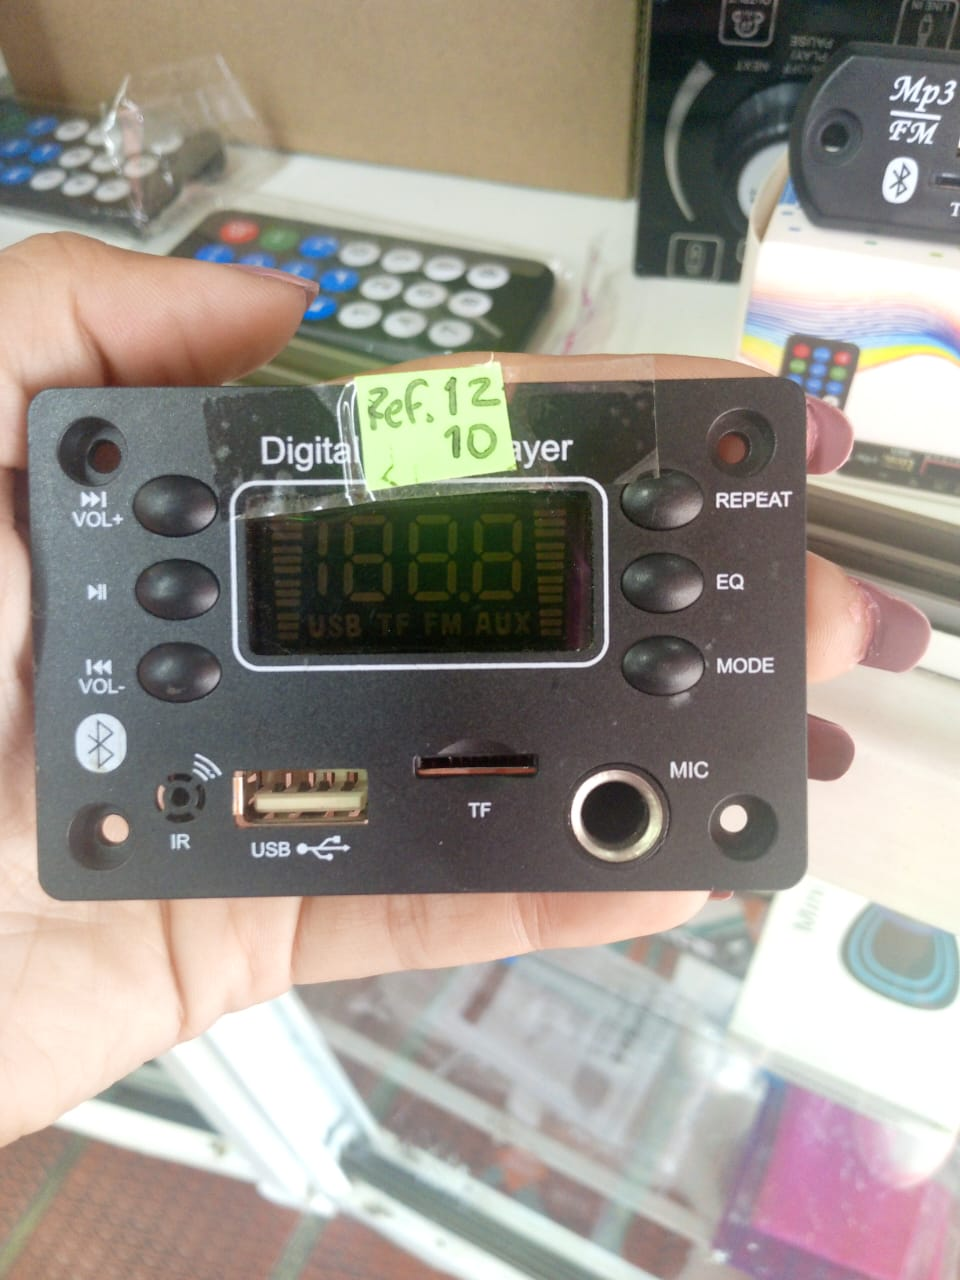
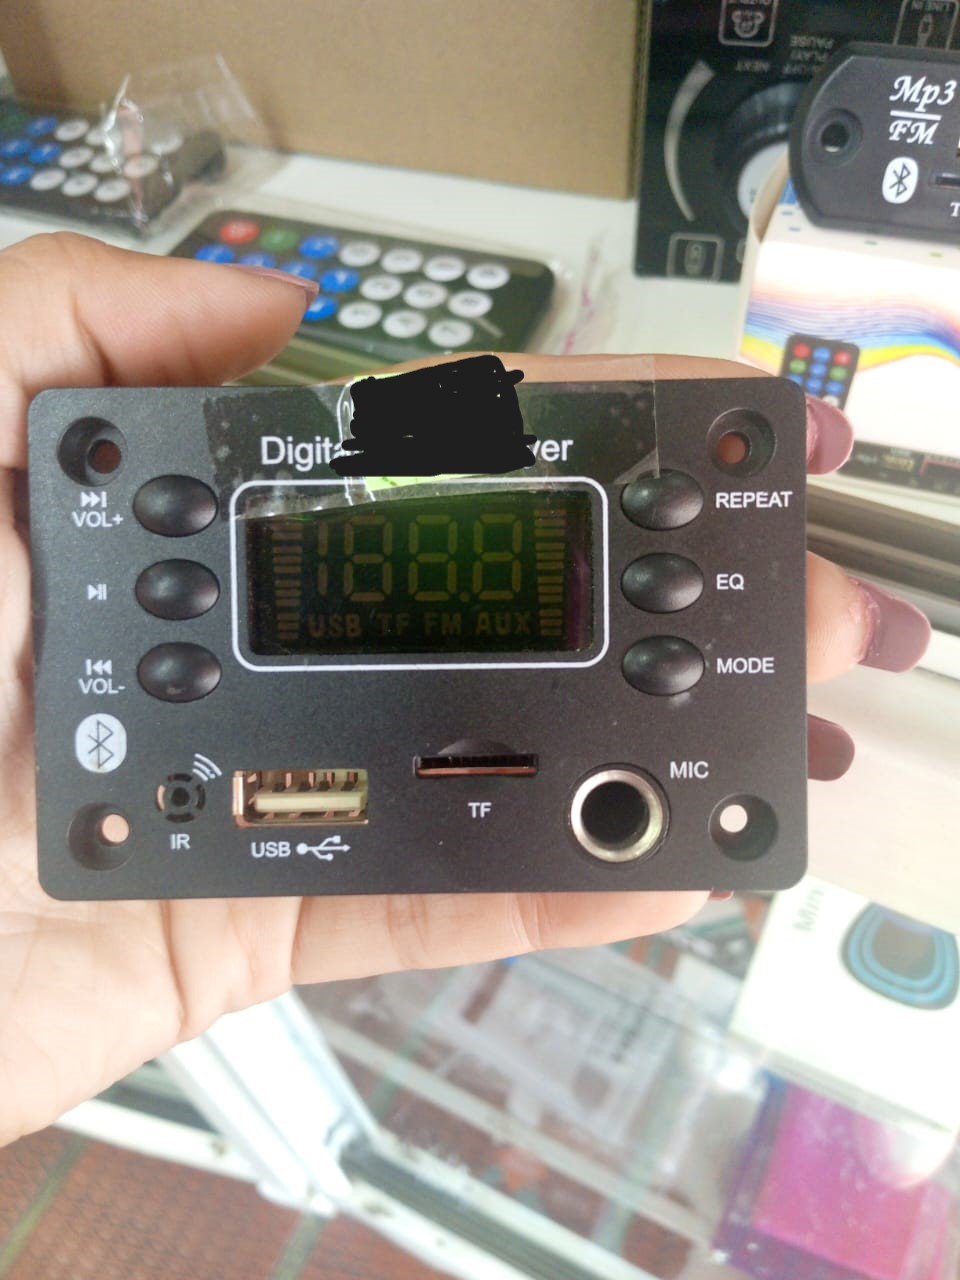
ya porfa

Changed region(s): [[0.3438, 0.2812, 0.5625, 0.375]]

diff --git a/src/App.jsx b/src/App.jsx
@@ -41,7 +41,7 @@ const PRODUCTS = [
   },
   {
     id: 3,
-    name: "Planca de cabello",
+    name: "Plancha de cabello",
     category: "Electrónica",
     description:
       "Plancha de cabello profesional con tecnología de cerámica avanzada para un alisado rápido y sin daños, perfecta para todo tipo de cabello.",
@@ -73,11 +73,11 @@ const PRODUCTS = [
   },
   {
     id: 7,
-    name: "Planca de cabello",
+    name: "Plancha de cabello",
     category: "Electrónica",
     description:
       "Plancha de cabello profesional con tecnología de cerámica avanzada para un alisado rápido y sin daños, perfecta para todo tipo de cabello.",
-    image: "/assets/Plancha.jfif",
+    image: "/assets/Plancha.jpg",
   },
   {
     id: 8,
@@ -125,7 +125,7 @@ const PRODUCTS = [
     category: "Electrónica",
     description:
       "Auriculares inalámbricos con cancelación de ruido activa y sonido de alta fidelidad.",
-    image: "/assets/audifonos_inalam_mario.jfif",
+    image: "/assets/audifonos_inalam_mario.jpg",
   },
   {
     id: 15,
@@ -149,7 +149,7 @@ const PRODUCTS = [
     category: "Electrónica",
     description:
       "Cámara de seguimiento automático con sensor de movimiento y lente de alta resolución.",
-    image: "/assets/cam_auto_tracking.jfif",
+    image: "/assets/cam_auto_tracking.jpg",
   },
   {
     id: 18,
@@ -157,7 +157,7 @@ const PRODUCTS = [
     category: "Electrónica",
     description:
       "Soporte para teléfono para carro con ajuste seguro y diseño ergonómico.",
-    image: "/assets/car_telf_supp.jfif",
+    image: "/assets/car_telf_supp.jpg",
   },
   {
     id: 19,
@@ -165,7 +165,7 @@ const PRODUCTS = [
     category: "Electrónica",
     description:
       "Soporte para teléfono para carro con ajuste seguro y diseño ergonómico.",
-    image: "/assets/car_telf_supp2.jfif",
+    image: "/assets/car_telf_supp2.jpg",
   },
   {
     id: 20,
@@ -224,19 +224,11 @@ const PRODUCTS = [
     image: "/assets/go_pro_temu.jfif",
   },
   {
-    id: 27,
-    name: "TV BOX",
-    category: "Electrónica",
-    description:
-      "streaming stick con acceso a miles de canales, películas y programas de televisión en alta definición.",
-    image: "/assets/hdtv.jfif",
-  },
-  {
     id: 28,
-    name: "Proyector portátil",
+    name: "home trate",
     category: "Electrónica",
     description:
-      "Proyector portátil con alta resolución y tecnología de imagen avanzada para una experiencia de visualización inmersiva.",
+      "Home Trate con diseño moderno y tecnología de audio avanzada, ideal para disfrutar de tu música favorita en cualquier lugar de tu hogar.",
     image: "/assets/home trate.jfif",
   },
   {
@@ -257,10 +249,10 @@ const PRODUCTS = [
   },
   {
     id: 31,
-    name: "Peso Metro",
+    name: "Peso digital",
     category: "Electrónica",
     description:
-      "Peso metro digital con pantalla LCD, ideal para medir peso de objetos pequeños con precisión.",
+      "Peso digital con pantalla LCD, ideal para medir peso de objetos pequeños con precisión.",
     image: "/assets/peso_metro.jfif",
   },
   {
@@ -269,7 +261,7 @@ const PRODUCTS = [
     category: "Electrónica",
     description:
       "Secador de zapatos con tecnología de calor rápido y seguridad integrada.",
-    image: "/assets/shoe_dryer.jfif",
+    image: "/assets/shoe_dryer.jpg",
   },
   {
     id: 34,
@@ -301,30 +293,30 @@ const PRODUCTS = [
     category: "Electrónica",
     description:
       "Ventilador doble con tecnología de enfriamiento avanzada y diseño moderno.",
-    image: "/assets/ventilador_doble.jfif",
+    image: "/assets/ventilador_doble.jpg",
   },
   {
     id: 38,
-    name: "Soporte para teléfono para carro",
+    name: "calculadora cientifica",
     category: "Electrónica",
     description:
-      "Soporte para teléfono para carro con ajuste seguro y diseño ergonómico.",
+      "calculadora cientifica con funciones avanzadas, ideal para estudiantes y profesionales.",
     image: "/assets/calculadora.jfif",
   },
   {
     id: 39,
-    name: "Soporte para teléfono para carro",
+    name: "Adaptador para laptops",
     category: "Electrónica",
     description:
-      "Soporte para teléfono para carro con ajuste seguro y diseño ergonómico.",
+      "Adaptador para laptops con diseño compacto y eficiente, ideal para cargar dispositivos electrónicos.",
     image: "/assets/Adaptador_Laptops.jfif",
   },
   {
     id: 40,
-    name: "Corneta Karaoke",
+    name: "Microfo para Karaoke",
     category: "Electrónica",
     description:
-      "Corneta karaoke portátil con micrófono inalámbrico, ideal para fiestas y reuniones familiares.",
+      "Micrófono para karaoke con diseño moderno y tecnología de sonido avanzada, ideal para disfrutar de tus canciones favoritas en casa o en fiestas.",
     image: "/assets/microfono.jfif",
   },
   {
@@ -333,7 +325,7 @@ const PRODUCTS = [
     category: "Electrónica",
     description:
       "Adaptador de tipo C con diseño compacto y eficiente, ideal para cargar dispositivos electrónicos.",
-    image: "/assets/Adaptador_TipoC.jfif",
+    image: "/assets/Adaptador_TipoC.jpg",
   },
   {
     id: 42,
@@ -365,7 +357,7 @@ const PRODUCTS = [
     category: "Electrónica",
     description:
       "repetidor wifi con cobertura extendida y conexión rápida para una experiencia de navegación sin interrupciones.",
-    image: "/assets/repetidor_wifi.jfif",
+    image: "/assets/repetidor_wifi.jpg",
   },
   {
     id: 46,
@@ -392,16 +384,8 @@ const PRODUCTS = [
     image: "/assets/arrancador_carros.jfif",
   },
   {
-    id: 49,
-    name: "digital layer",
-    category: "Electrónica",
-    description:
-      "digital layer con pantalla táctil y conectividad inalámbrica, ideal para dibujar, tomar notas y realizar tareas creativas con precisión.",
-    image: "/assets/digital_layer.jfif",
-  },
-  {
     id: 50,
-    name: "modulo amplificador",
+    name: "Modulo amplificador",
     category: "Electrónica",
     description:
       "Módulo amplificador con tecnología de audio avanzada, ideal para mejorar la calidad del sonido en sistemas de audio.",
@@ -441,7 +425,7 @@ const PRODUCTS = [
   },
   {
     id: 55,
-    name: "clavora de acero",
+    name: "Calvadora de acero",
     category: "Electrónica",
     description:
       "Clavadora de acero con diseño robusto y tecnología de clavado eficiente, ideal para proyectos de construcción y bricolaje.",
@@ -449,7 +433,7 @@ const PRODUCTS = [
   },
   {
     id: 56,
-    name: "codera",
+    name: "Codera",
     category: "Electrónica",
     description:
       "Codera con diseño ergonómico y material de alta calidad.",
@@ -457,7 +441,7 @@ const PRODUCTS = [
   },
   {
     id: 57,
-    name: "collarin",
+    name: "Collarín",
     category: "Electrónica",
     description:
       "Collarín con diseño ergonómico y material de alta calidad, ideal para brindar soporte y comodidad en caso de lesiones cervicales.",
@@ -473,7 +457,7 @@ const PRODUCTS = [
   },
   {
     id: 59,
-    name: "corrector de postura",
+    name: "Corrector de postura",
     category: "Electrónica",
     description:
       "Corrector de postura con diseño ergonómico y material de alta calidad.",
@@ -481,7 +465,7 @@ const PRODUCTS = [
   },
   {
     id: 61,
-    name: "escensia aromatica",
+    name: "Escensia aromatica",
     category: "Electrónica",
     description:
       "Escencia aromática con fragancia relajante y duradera, ideal para crear un ambiente acogedor en tu hogar u oficina.",
@@ -497,7 +481,7 @@ const PRODUCTS = [
   },
   {
     id: 63,
-    name: "headlamp",
+    name: "Headlamp",
     category: "Electrónica",
     description:
       "Headlamp con diseño compacto y tecnología de iluminación avanzada, ideal para actividades al aire libre y situaciones de emergencia.",
@@ -517,7 +501,7 @@ const PRODUCTS = [
     category: "Electrónica",
     description:
       "Láser autonivelante profesional con alta precisión y tecnología de medición avanzada, ideal para proyectos de construcción y bricolaje.",
-    image: "/assets/categoria_hogar/láser_autonivelante_profesional.jfif",
+    image: "/assets/categoria_hogar/láser_autonivelante_profesional.jpg",
   },
   {
     id: 66,
@@ -525,7 +509,7 @@ const PRODUCTS = [
     category: "Electrónica",
     description:
       "Linterna recargable con tecnología de iluminación avanzada y diseño compacto.",
-    image: "/assets/categoria_hogar/literna_recargable.jfif",
+    image: "/assets/categoria_hogar/literna_recargable.jpg",
   },
   {
     id: 67,
@@ -541,11 +525,11 @@ const PRODUCTS = [
     category: "Electrónica",
     description:
       "Máquina de afeitar eléctrica con tecnología de corte preciso y diseño ergonómico.",
-    image: "/assets/categoria_hogar/maquina_afeitar.jfif",
+    image: "/assets/categoria_hogar/maquina_afeitar.jpg",
   },
   {
     id: 69,
-    name: "masajeador de pies",
+    name: "Masajeador de pies",
     category: "Electrónica",
     description:
       "Masajeador de pies con tecnología de masaje y diseño ergonómico.",
@@ -561,7 +545,7 @@ const PRODUCTS = [
   },
   {
     id: 71,
-    name: "mini afeitadora",
+    name: "Mini afeitadora",
     category: "Electrónica",
     description:
       "Mini afeitadora eléctrica con tecnología de corte preciso y diseño compacto, ideal para retoques rápidos y viajes.",
@@ -569,7 +553,7 @@ const PRODUCTS = [
   },
   {
     id: 72,
-    name: "muñequera",
+    name: "Muñequera",
     category: "Electrónica",
     description:
       "Muñequera con diseño ergonómico y material de alta calidad, ideal para brindar soporte y comodidad en caso de lesiones en la muñeca.",
@@ -577,7 +561,7 @@ const PRODUCTS = [
   },
   {
     id: 73,
-    name: "parche analgesico",
+    name: "Parche analgésico",
     category: "Electrónica",
     description:
       "Parche analgésico con tecnología de liberación controlada, ideal para aliviar el dolor muscular y articular.",
@@ -585,7 +569,7 @@ const PRODUCTS = [
   },
   {
     id: 74,
-    name: "pasta termica",
+    name: "Pasta térmica",
     category: "Electrónica",
     description:
       "Pasta térmica con alta conductividad térmica, ideal para mejorar la disipación de calor en componentes electrónicos y mantener un rendimiento óptimo.",
@@ -593,7 +577,7 @@ const PRODUCTS = [
   },
   {
     id: 75,
-    name: "pega loca",
+    name: "Pega loca",
     category: "Electrónica",
     description:
       " Pega loca con fórmula de alta resistencia, ideal para reparaciones rápidas y duraderas en una variedad de materiales.",
@@ -601,7 +585,7 @@ const PRODUCTS = [
   },
   {
     id: 76,
-    name: "portavasos ajustable",
+    name: "Portavasos ajustable",
     category: "Electrónica",
     description:
       "Portavasos ajustable con diseño ergonómico y material de alta calidad, ideal para mantener tu bebida a la temperatura deseada.",
@@ -609,7 +593,7 @@ const PRODUCTS = [
   },
   {
     id: 77,
-    name: "rodillera",
+    name: "Rodillera",
     category: "Electrónica",
     description:
       "Rodillera con diseño ergonómico y material de alta calidad, ideal para brindar soporte y comodidad en caso de lesiones en la rodilla.",
@@ -617,7 +601,7 @@ const PRODUCTS = [
   },
   {
     id: 78,
-    name: "termo de bebidas",
+    name: "Termo de bebidas",
     category: "Electrónica",
     description:
       "Termo de bebidas con diseño moderno y material de alta calidad, ideal para mantener tu bebida a la temperatura deseada.",
@@ -625,7 +609,7 @@ const PRODUCTS = [
   },
   {
     id: 79,
-    name: "termo morado",
+    name: "Termo morado",
     category: "Electrónica",
     description:
       "Termo morado con diseño moderno y material de alta calidad, ideal para mantener tu bebida a la temperatura deseada.",
@@ -633,7 +617,7 @@ const PRODUCTS = [
   },
   {
     id: 80,
-    name: "termo reutilizable",
+    name: "Termo reutilizable",
     category: "Electrónica",
     description:
       "Termo reutilizable con diseño moderno y material de alta calidad, ideal para mantener tu bebida a la temperatura deseada.",
@@ -641,7 +625,7 @@ const PRODUCTS = [
   },
   {
     id: "81",
-    name: "tobillera",
+    name: "Tobillera",
     category: "Electrónica",
     description:
       "Tobillera con diseño ergonómico y material de alta calidad, ideal para brindar soporte y comodidad en caso de lesiones en la tobilla.",
@@ -669,7 +653,7 @@ export default function App() {
       <nav className="bg-white shadow-md sticky top-0 z-40">
         <div className="max-w-7xl mx-auto px-4 py-4 flex justify-between items-center">
           <h1 className="text-2xl font-black text-purple-600 tracking-tighter">
-            CAMIRL<span className="text-blue-700"> INVESTIGACIÓN </span>
+            CAMIRL<span className="text-blue-700"> INVERSIONES CA </span>
           </h1>
         </div>
       </nav>

diff --git a/index.html b/index.html
@@ -4,7 +4,7 @@
     <meta charset="UTF-8" />
     <link rel="icon" type="image/svg+xml" href="/assets/Logo.jpeg" />
     <meta name="viewport" content="width=device-width, initial-scale=1.0" />
-    <title>CAMIRL - Investigación, Tecnología y Electrónica</title>
+    <title>CAMIRL - Inversiones CA, Tecnología y Electrónica</title>
     <meta name="description" content="Encuentra lo mejor en tecnología, electrónica y accesorios para tu hogar. Todo en productos electrónicos para tu día a día." />
 
     <meta property="og:title" content="CAMIRL | Tecnología y Electrónica" />